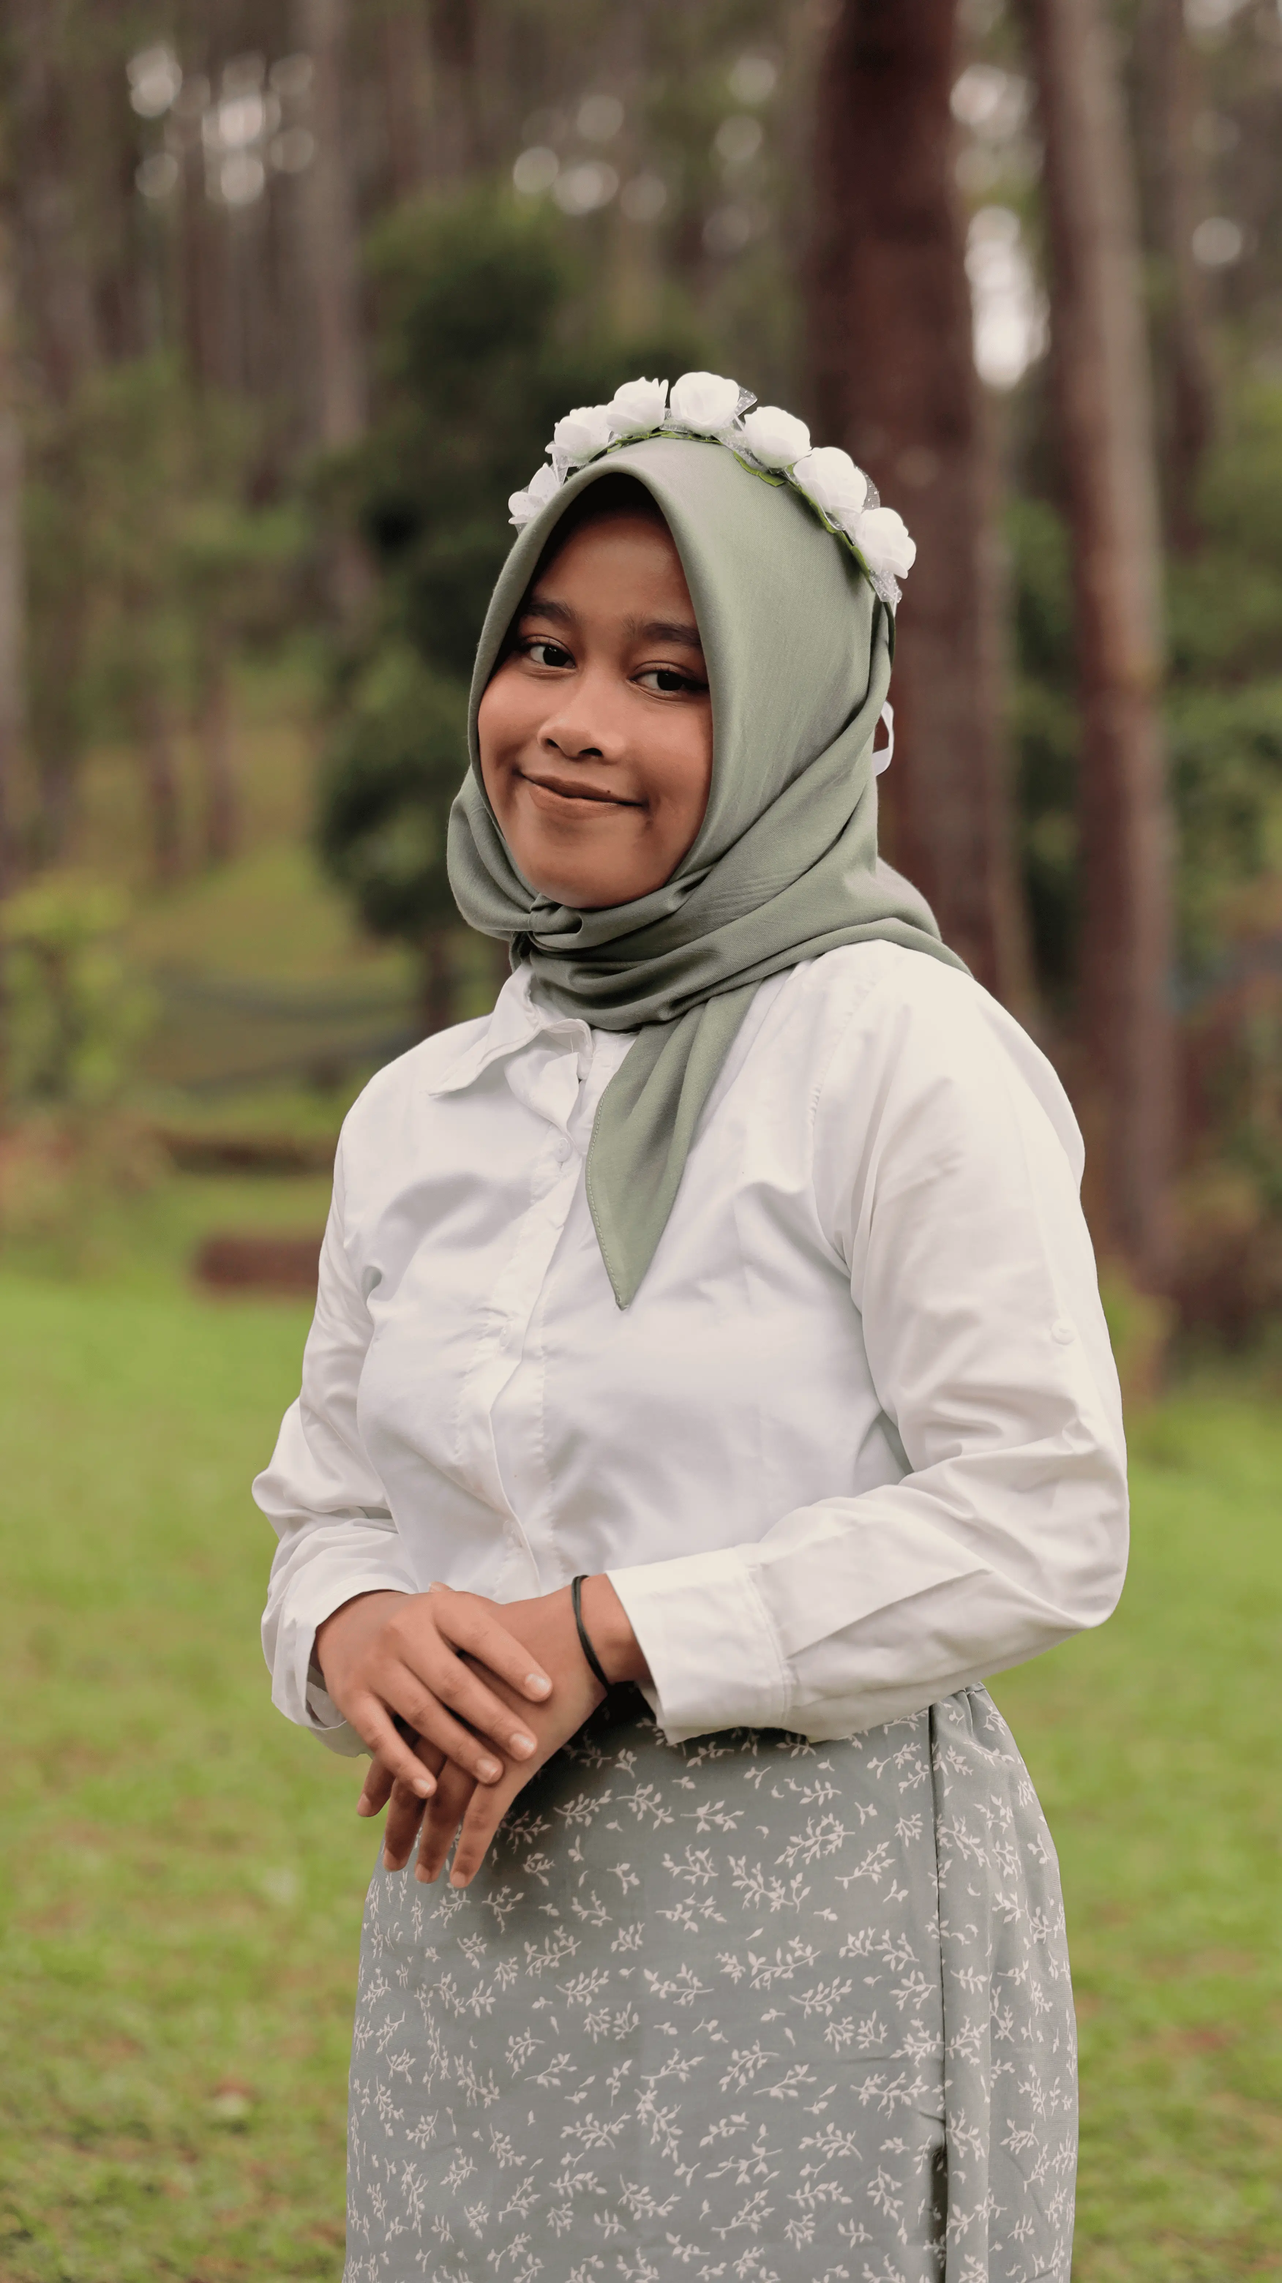
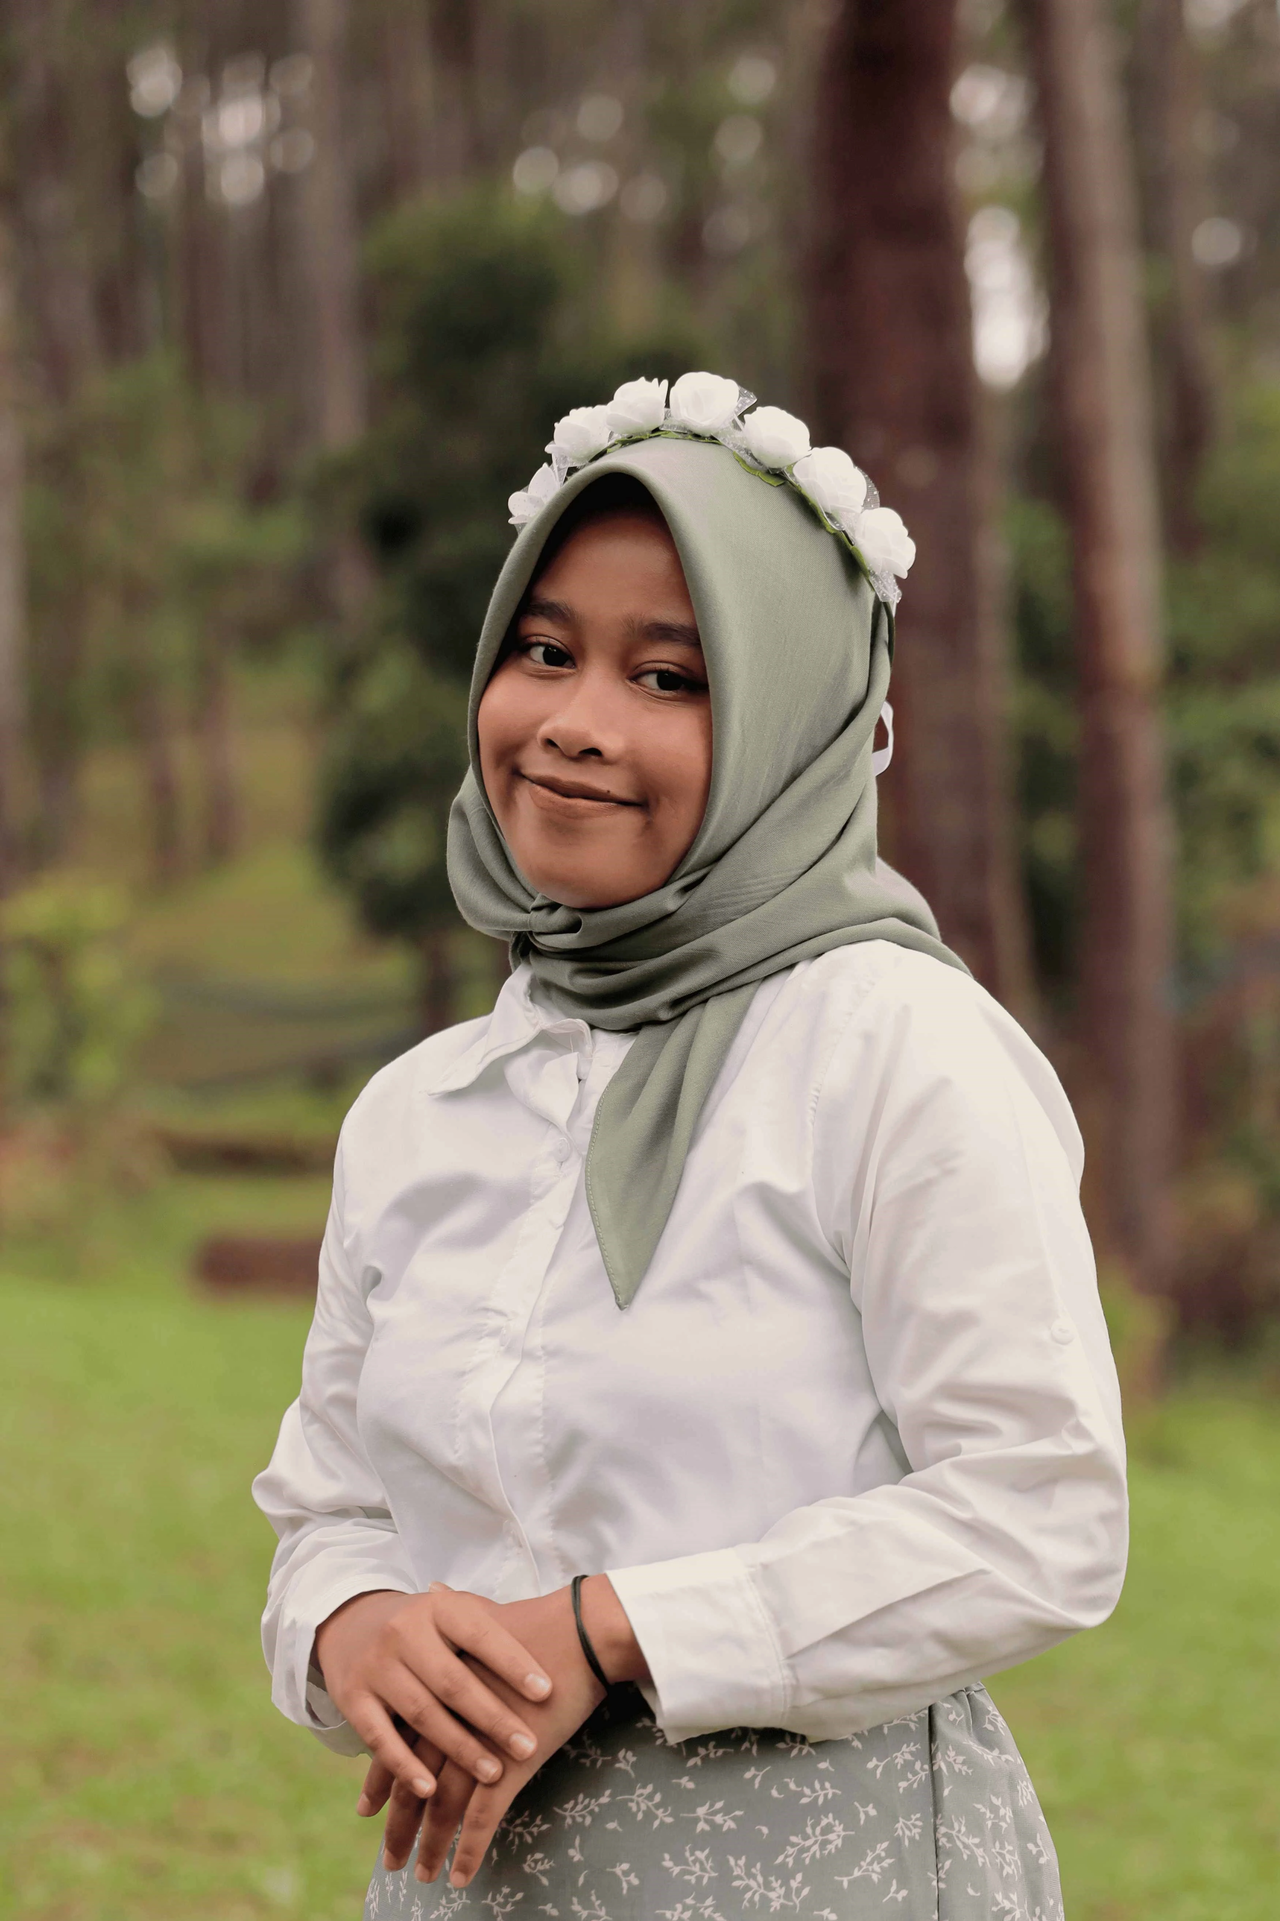
2x

diff --git a/index.html b/index.html
@@ -208,7 +208,7 @@
           <div class="owl-students-item owl-carousel">
 
             <div class="card card-student item">
-              <img src="./assets/images/student/AFISA SEPTIANI.webp" class="card-img-top img-fluid" alt="Afisa" loading="lazy">
+              <img src="./assets/images/student/AFISA SEPTIANI.webp" class="card-img-top img-fluid" alt="Afisa" >
               <div class="card-body down-content">
                 <h6>"gapailah cita-cita mu setinggi langit sampai menabrak satelit."</h6>
                 <div class="info">
@@ -218,7 +218,7 @@
               </div>
             </div>
             <div class="card card-student item">
-              <img src="./assets/images/student/AHMAD JAENAL SIDIK.webp" class="card-img-top img-fluid" alt="Ahmad" loading="lazy">
+              <img src="./assets/images/student/AHMAD JAENAL SIDIK.webp" class="card-img-top img-fluid" alt="Ahmad" >
               <div class="card-body down-content">
                 <h6>"setiap pertemuan pasti ada perpisahan dan setiap perpisahan pasti memiliki banyak kenangan."</h6>
                 <div class="info">
@@ -228,7 +228,7 @@
               </div>
             </div>
             <div class="card card-student item">
-              <img src="./assets/images/student/ANDINI MEYNISA.webp" class="card-img-top img-fluid" alt="Andini" loading="lazy">
+              <img src="./assets/images/student/ANDINI MEYNISA.webp" class="card-img-top img-fluid" alt="Andini" >
               <div class="card-body down-content">
                 <h6>"i like my coffe the way i like myself: sweet, bitter and too hot for you."</h6>
                 <div class="info">
@@ -238,7 +238,7 @@
               </div>
             </div>
             <div class="card card-student item">
-              <img src="./assets/images/student/ANNISA MEILANY.webp" class="card-img-top img-fluid" alt="Annisa" loading="lazy">
+              <img src="./assets/images/student/ANNISA MEILANY.webp" class="card-img-top img-fluid" alt="Annisa" >
               <div class="card-body down-content">
                 <h6>"hidup itu berjalan kalo capek gojek aja."</h6>
                 <div class="info">
@@ -248,7 +248,7 @@
               </div>
             </div>
             <div class="card card-student item">
-              <img src="./assets/images/student/ARINDA NUR SABRINA.webp" class="card-img-top img-fluid" alt="Arinda" loading="lazy">
+              <img src="./assets/images/student/ARINDA NUR SABRINA.webp" class="card-img-top img-fluid" alt="Arinda" >
               <div class="card-body down-content">
                 <h6>"i remember it all too well."</h6>
                 <div class="info">
@@ -258,7 +258,7 @@
               </div>
             </div>
             <div class="card card-student item">
-              <img src="./assets/images/student/BILI MAHESA.webp" class="card-img-top img-fluid" alt="Bili" loading="lazy">
+              <img src="./assets/images/student/BILI MAHESA.webp" class="card-img-top img-fluid" alt="Bili" >
               <div class="card-body down-content">
                 <h6>"kehidupanku punk tapi laguku mawar bodas."</h6>
                 <div class="info">
@@ -268,7 +268,7 @@
               </div>
             </div>
             <div class="card card-student item">
-              <img src="./assets/images/student/DILLA DWI LESTARI.webp" class="card-img-top img-fluid" alt="Dilla" loading="lazy">
+              <img src="./assets/images/student/DILLA DWI LESTARI.webp" class="card-img-top img-fluid" alt="Dilla" >
               <div class="card-body down-content">
                 <h6>"nggak perlu sekolah tinggi-tinggi, naik pesawat terbang aja udah tinggi."</h6>
                 <div class="info">
@@ -278,7 +278,7 @@
               </div>
             </div>
             <div class="card card-student item">
-              <img src="./assets/images/student/DISA WIDIA PEBRIANI.webp" class="card-img-top img-fluid" alt="Disa" loading="lazy">
+              <img src="./assets/images/student/DISA WIDIA PEBRIANI.webp" class="card-img-top img-fluid" alt="Disa" >
               <div class="card-body down-content">
                 <h6>"tetap tenang walaupun salah jurusan."</h6>
                 <div class="info">
@@ -288,7 +288,7 @@
               </div>
             </div>
             <div class="card card-student item">
-              <img src="./assets/images/student/ELIS SYALWA FAUZIAH.webp" class="card-img-top img-fluid" alt="Elis" loading="lazy">
+              <img src="./assets/images/student/ELIS SYALWA FAUZIAH.webp" class="card-img-top img-fluid" alt="Elis" >
               <div class="card-body down-content">
                 <h6>"kalo mau pinter itu belajar, kalo mau sukses ya berusaha, kalo mau jdi lebih baik ayo berubah."</h6>
                 <div class="info">
@@ -298,7 +298,7 @@
               </div>
             </div>
             <div class="card card-student item">
-              <img src="./assets/images/student/FADLY NUR ZACKY.webp" class="card-img-top img-fluid" alt="Fadly" loading="lazy">
+              <img src="./assets/images/student/FADLY NUR ZACKY.webp" class="card-img-top img-fluid" alt="Fadly" >
               <div class="card-body down-content">
                 <h6>"ISI QUOTE"</h6>
                 <div class="info">
@@ -308,7 +308,7 @@
               </div>
             </div>
             <div class="card card-student item">
-              <img src="./assets/images/student/FUJIANSYAH SA_UD.webp" class="card-img-top img-fluid" alt="Fuji" loading="lazy">
+              <img src="./assets/images/student/FUJIANSYAH SA_UD.webp" class="card-img-top img-fluid" alt="Fuji" >
               <div class="card-body down-content">
                 <h6>"tidak ada proses yang muda untuk hasil yang indah."</h6>
                 <div class="info">
@@ -318,7 +318,7 @@
               </div>
             </div>
             <div class="card card-student item">
-              <img src="./assets/images/student/" class="card-img-top img-fluid" alt="Galuh" loading="lazy">
+              <img src="./assets/images/student/" class="card-img-top img-fluid" alt="Galuh" >
               <div class="card-body down-content">
                 <h6>"apa yang hilang dari diriku, aku temukan ada dalam dirimu."</h6>
                 <div class="info">
@@ -328,7 +328,7 @@
               </div>
             </div>
             <div class="card card-student item">
-              <img src="./assets/images/student/HIKMAT NURALAM.webp" class="card-img-top img-fluid" alt="Hikmat" loading="lazy">
+              <img src="./assets/images/student/HIKMAT NURALAM.webp" class="card-img-top img-fluid" alt="Hikmat" >
               <div class="card-body down-content">
                 <h6>"sekolah sampai tamat, santuy sampe kiamat."</h6>
                 <div class="info">
@@ -338,7 +338,7 @@
               </div>
             </div>
             <div class="card card-student item">
-              <img src="./assets/images/student/LAILA SAFITRI.webp" class="card-img-top img-fluid" alt="Laila" loading="lazy">
+              <img src="./assets/images/student/LAILA SAFITRI.webp" class="card-img-top img-fluid" alt="Laila" >
               <div class="card-body down-content">
                 <h6>"kebaikan yang kita berikan pada orang lain sesungguhnya adalah kebaikan yang kita tanam untuk diri sendiri."</h6>
                 <div class="info">
@@ -348,7 +348,7 @@
               </div>
             </div>
             <div class="card card-student item">
-              <img src="./assets/images/student/M. RIZKI FIRMANSYAH.webp" class="card-img-top img-fluid" alt="Rizki" loading="lazy">
+              <img src="./assets/images/student/M RIZKI FIRMANSYAH.webp" class="card-img-top img-fluid" alt="Rizki" >
               <div class="card-body down-content">
                 <h6>"kalo kangen, nomerku masih yang lama :)."</h6>
                 <div class="info">
@@ -358,7 +358,7 @@
               </div>
             </div>
             <div class="card card-student item">
-              <img src="./assets/images/student/MELIANI PUSPITA SARI.webp" class="card-img-top img-fluid" alt="Meliani" loading="lazy">
+              <img src="./assets/images/student/MELIANI PUSPITA SARI.webp" class="card-img-top img-fluid" alt="Meliani" >
               <div class="card-body down-content">
                 <h6>"kejarlah ilmu setinggi-tingginya, karna kalau ngejar dia gatau kapan luluhnya."</h6>
                 <div class="info">
@@ -368,7 +368,7 @@
               </div>
             </div>
             <div class="card card-student item">
-              <img src="./assets/images/student/MUHAMMAD DANIL SUBARKAH.webp" class="card-img-top img-fluid" alt="Danil" loading="lazy">
+              <img src="./assets/images/student/MUHAMMAD DANIL SUBARKAH.webp" class="card-img-top img-fluid" alt="Danil" >
               <div class="card-body down-content">
                 <h6>"tidak bisa berkata-kata lagi."</h6>
                 <div class="info">
@@ -378,7 +378,7 @@
               </div>
             </div>
             <div class="card card-student item">
-              <img src="./assets/images/student/MUHAMMAD IRSAN NUGRAHA.webp" class="card-img-top img-fluid" alt="Irsan" loading="lazy">
+              <img src="./assets/images/student/MUHAMMAD IRSAN NUGRAHA.webp" class="card-img-top img-fluid" alt="Irsan" >
               <div class="card-body down-content">
                 <h6>"jangan percaya sama libur 2 minggu."</h6>
                 <div class="info">
@@ -388,7 +388,7 @@
               </div>
             </div>
             <div class="card card-student item">
-              <img src="./assets/images/student/MUHAMMAD NIZAR ZAELANI.webp" class="card-img-top img-fluid" alt="Nizar" loading="lazy">
+              <img src="./assets/images/student/MUHAMMAD NIZAR ZAELANI.webp" class="card-img-top img-fluid" alt="Nizar" >
               <div class="card-body down-content">
                 <h6>"gamau berekspetasi lagi ke kamu ah, takutnya kaya kaleng khongguan yang isinya rangginang kan te lucu :)."</h6>
                 <div class="info">
@@ -398,7 +398,7 @@
               </div>
             </div>
             <div class="card card-student item">
-              <img src="./assets/images/student/M RAFKY ARDANA.webp" class="card-img-top img-fluid" alt="Rafky" loading="lazy">
+              <img src="./assets/images/student/MUHAMMAD RAFKY ARDANA.webp" class="card-img-top img-fluid" alt="Rafky" >
               <div class="card-body down-content">
                 <h6>"langit itu hanya bisa di pandang, mana bisa kita ingin memeluknya"</h6>
                 <div class="info">
@@ -408,7 +408,7 @@
               </div>
             </div>
             <div class="card card-student item">
-              <img src="./assets/images/student/MUTIA SEKAR PITALOKA.webp" class="card-img-top img-fluid" alt="Mutia" loading="lazy">
+              <img src="./assets/images/student/MUTIA SEKAR PITALOKA.webp" class="card-img-top img-fluid" alt="Mutia" >
               <div class="card-body down-content">
                 <h6>"sebuah permata tidak akan demikian juga seseorang tidak akan menjadi sukses tanpa tantangan."</h6>
                 <div class="info">
@@ -418,7 +418,7 @@
               </div>
             </div>
             <div class="card card-student item">
-              <img src="./assets/images/" class="card-img-top img-fluid" alt="Nazzar" loading="lazy">
+              <img src="./assets/images/" class="card-img-top img-fluid" alt="Nazzar" >
               <div class="card-body down-content">
                 <h6>"ISI QUOTE"</h6>
                 <div class="info">
@@ -428,7 +428,7 @@
               </div>
             </div>
             <div class="card card-student item">
-              <img src="./assets/images/student/NENG SINTA PATMAWATI.webp" class="card-img-top img-fluid" alt="Sinta" loading="lazy">
+              <img src="./assets/images/student/NENG SINTA PATMAWATI.webp" class="card-img-top img-fluid" alt="Sinta" >
               <div class="card-body down-content">
                 <h6>"if we never try, we will never know."</h6>
                 <div class="info">
@@ -438,7 +438,7 @@
               </div>
             </div>
             <div class="card card-student item">
-              <img src="./assets/images/student/NENTI WINARTI.webp" class="card-img-top img-fluid" alt="Nenti" loading="lazy">
+              <img src="./assets/images/student/NENTI WINARTI.webp" class="card-img-top img-fluid" alt="Nenti" >
               <div class="card-body down-content">
                 <h6>"udah dapet ijasah, tinggal nunggu ijab sah."</h6>
                 <div class="info">
@@ -448,7 +448,7 @@
               </div>
             </div>
             <div class="card card-student item">
-              <img src="./assets/images/student/NURUL HAYA.webp" class="card-img-top img-fluid" alt="Nurul" loading="lazy">
+              <img src="./assets/images/student/NURUL HAYA.webp" class="card-img-top img-fluid" alt="Nurul" >
               <div class="card-body down-content">
                 <h6>"tidak perlu sempurna untuk menginspirasi orang lain. biarkan orang lain terinspirasi oleh bagaimana kamu menangani ketindaksempurnaamu."</h6>
                 <div class="info">
@@ -458,7 +458,7 @@
               </div>
             </div>
             <div class="card card-student item">
-              <img src="./assets/images/student/PUTRI ALIFIA ZAHRA.webp" class="card-img-top img-fluid" alt="Putri" loading="lazy">
+              <img src="./assets/images/student/PUTRI ALIFIA ZAHRA.webp" class="card-img-top img-fluid" alt="Putri" >
               <div class="card-body down-content">
                 <h6>"setiap hari dengerin lagu tulus, eh tau tau lulus."</h6>
                 <div class="info">
@@ -468,7 +468,7 @@
               </div>
             </div>
             <div class="card card-student item">
-              <img src="./assets/images/student/RAFI HILMI DZAKI.webp" class="card-img-top img-fluid" alt="Rafi" loading="lazy">
+              <img src="./assets/images/student/RAFI HILMI DZAKI.webp" class="card-img-top img-fluid" alt="Rafi" >
               <div class="card-body down-content">
                 <h6>"there's a hell in hello, an end in fried, a lie in believer, an over in lover, and good in goodbye."</h6>
                 <div class="info">
@@ -478,7 +478,7 @@
             </div>
             </div>
             <div class="card card-student item">
-              <img src="./assets/images/student/RAI FADHILAH.webp" class="card-img-top img-fluid" alt="Rai" loading="lazy">
+              <img src="./assets/images/student/RAI FADHILAH.webp" class="card-img-top img-fluid" alt="Rai" >
               <div class="card-body down-content">
                 <h6>"kita punya cita-cita, tapi semesta mempunyai cerita."</h6>
                 <div class="info">
@@ -488,7 +488,7 @@
             </div>
             </div>
             <div class="card card-student item">
-              <img src="./assets/images/student/RIZALLUL MAULA.webp" class="card-img-top img-fluid" alt="Rizal" loading="lazy">
+              <img src="./assets/images/student/RIZALLUL MAULA.webp" class="card-img-top img-fluid" alt="Rizal" >
               <div class="card-body down-content">
                 <h6>"jangan pernah lelah, untuk mencari cuan."</h6>
                 <div class="info">
@@ -498,7 +498,7 @@
             </div>
             </div>
             <div class="card card-student item">
-              <img src="./assets/images/student/SENDI HERMAWAN PRATAMA PUTRA.webp" class="card-img-top img-fluid" alt="Sendi" loading="lazy">
+              <img src="./assets/images/student/SENDI HERMAWAN PRATAMA PUTRA.webp" class="card-img-top img-fluid" alt="Sendi" >
               <div class="card-body down-content">
                 <h6>"begitu aksa anantara dan cakrawala, mendekap litani bersama renjana."</h6>
                 <div class="info">
@@ -508,7 +508,7 @@
             </div>
             </div>
             <div class="card card-student item">
-              <img src="./assets/images/student/SISKA APRILIANI.webp" class="card-img-top img-fluid" alt="Siska" loading="lazy">
+              <img src="./assets/images/student/SISKA APRILIANI.webp" class="card-img-top img-fluid" alt="Siska" >
               <div class="card-body down-content">
                 <h6>"alhamdulillah lulus, tinggal nunggu kamu serius."</h6>
                 <div class="info">
@@ -518,7 +518,7 @@
             </div>
             </div>
             <div class="card card-student item">
-              <img src="./assets/images/student/TIFAL ABRAR HIDAYAT.webp" class="card-img-top img-fluid" alt="Tifal" loading="lazy">
+              <img src="./assets/images/student/TIFAL ABRAR HIDAYAT.webp" class="card-img-top img-fluid" alt="Tifal" >
               <div class="card-body down-content">
                 <h6>"alhamdulillah lulus, tinggal nunggu kamu serius."</h6>
                 <div class="info">
@@ -528,7 +528,7 @@
             </div>
             </div>
             <div class="card card-student item">
-              <img src="./assets/images/student/YESI AISYAH.webp" class="card-img-top img-fluid" alt="Yesi" loading="lazy">
+              <img src="./assets/images/student/YESI AISYAH.webp" class="card-img-top img-fluid" alt="Yesi" >
               <div class="card-body down-content">
                 <h6>"because everyone leaves eventually."</h6>
                 <div class="info">

diff --git a/assets/css/style.css b/assets/css/style.css
@@ -1239,6 +1239,7 @@ section.students {
 
 .card-student{
   width: 17rem;
+  height: 560px;
   margin: 20px auto;
   padding: 0;
   border-radius: 145px 145px 0px 0px;
@@ -1246,7 +1247,7 @@ section.students {
 .card-student .card-img-top{
   border-radius: 145px 145px 0px 0px ;
   padding: 1px;
-  object-fit: contain;
+  object-fit: cover;
 }
 
 .button-student a{

diff --git a/assets/js/custom.js b/assets/js/custom.js
@@ -134,7 +134,7 @@
 		loop:true,
 		dots: true,
 		nav: true,
-		// autoplay: true,
+		autoplay: true,
 		margin:30,
 		  responsive:{
 			  0:{
